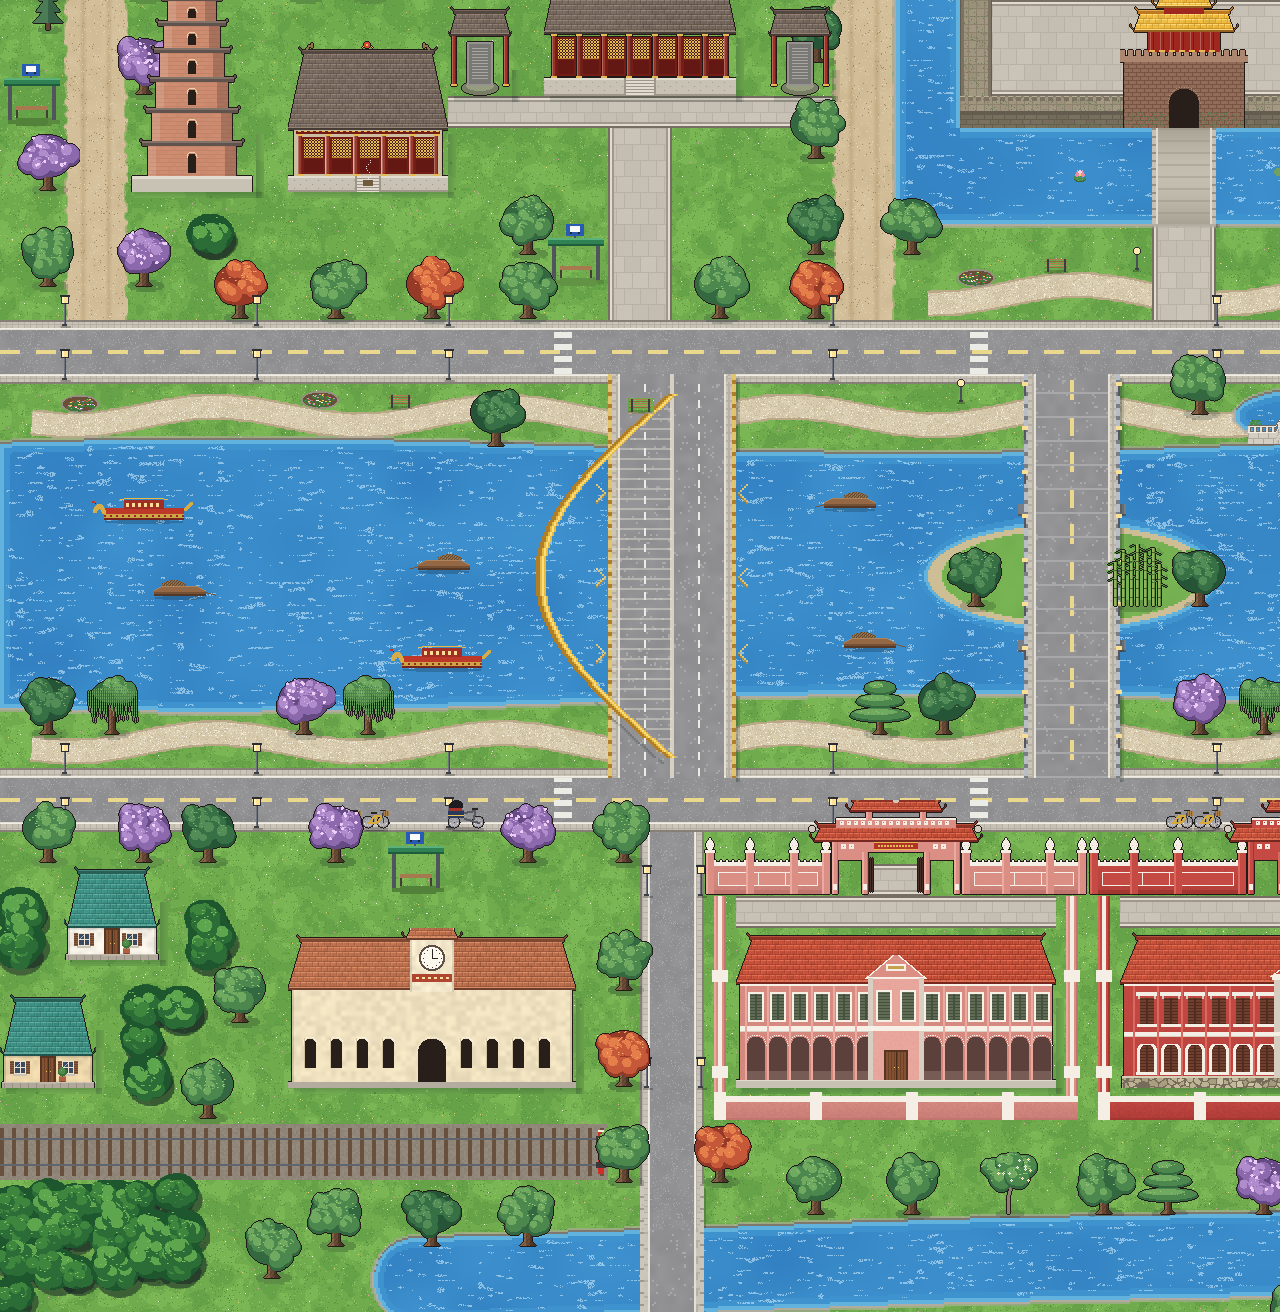
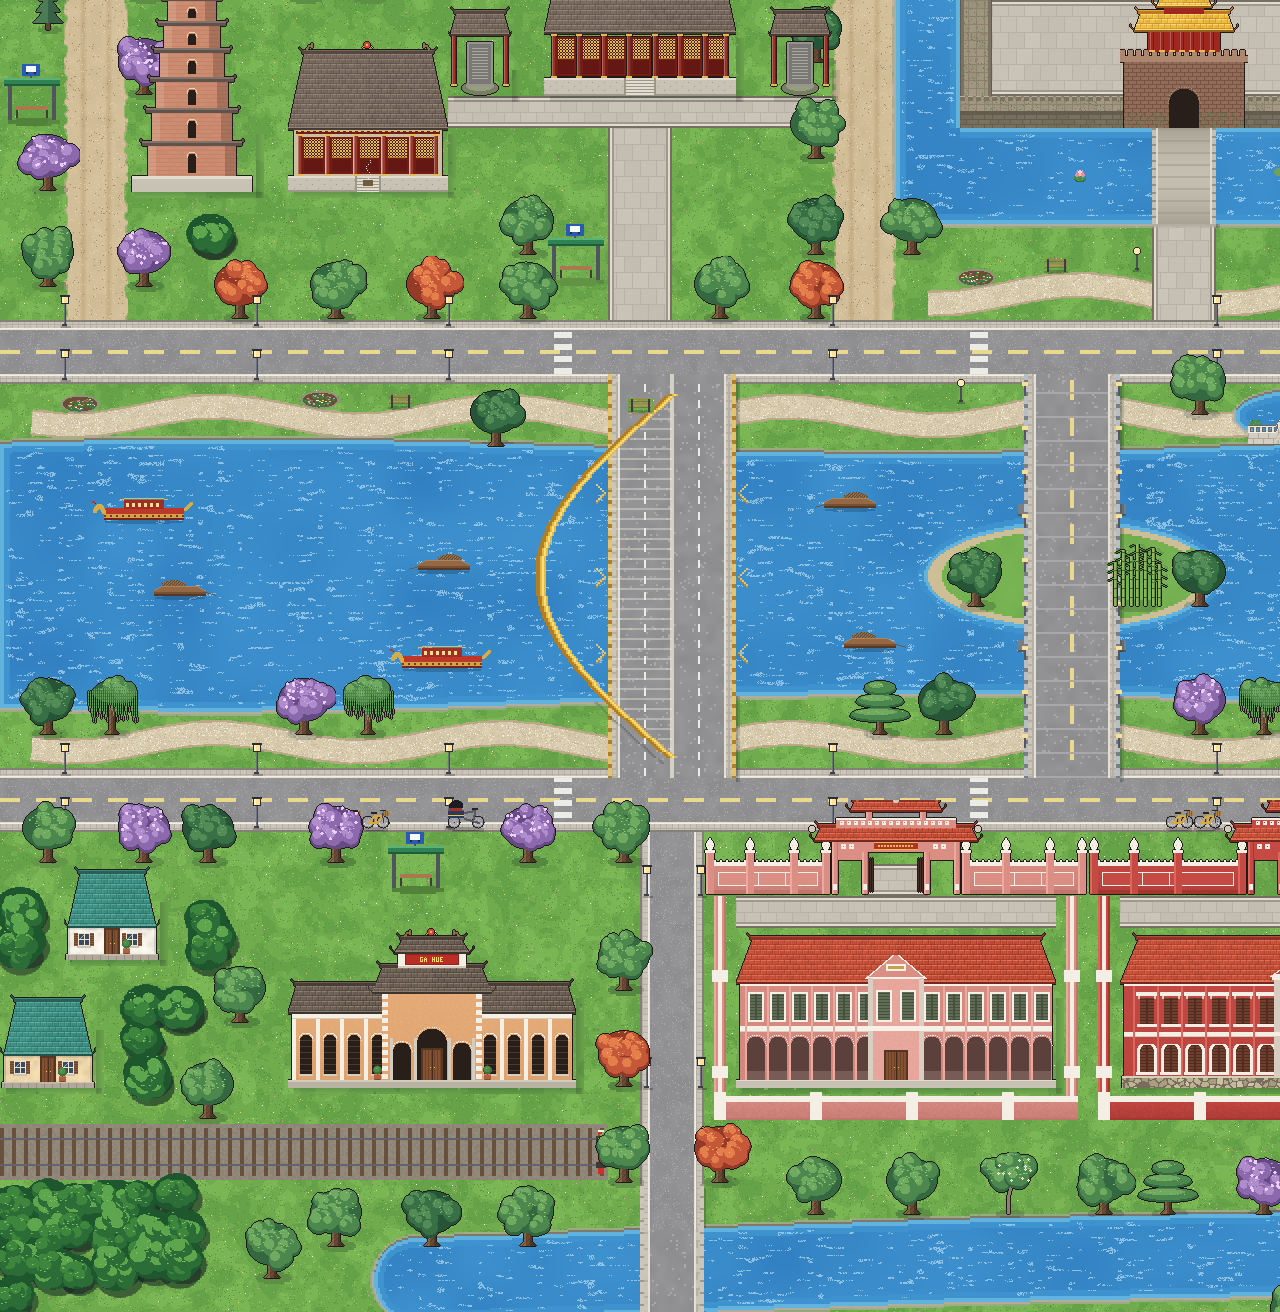
feat: Ga Huế redrawn, and a departures board with trips coming soon
- The station as it stands: apricot walls picked out in white, a long low
  wing either side under dark tile with arched windows between pilasters,
  the taller middle hall under two tiers of curved roof with upturned
  corners, the GA HUE sign in red and gold between them, a three-arched
  porch. The map's own copy is the detail art halved, like the schools.
- A departures board at the east end of the platform, by the buffer stop.
  Walk up and it lists Bạch Mã, Thuận An and Lăng Cô, each marked Coming
  soon — the lines are still being laid.

Changed region(s): [[0.2188, 0.6875, 0.4688, 0.8438]]

diff --git a/src/components/GameWorld.tsx b/src/components/GameWorld.tsx
@@ -236,8 +236,11 @@ const INTRO_SEEN = 'voca-world-intro-seen';
 // A game's mark on its card: a pixel icon where the kit has one, else an emoji.
 const PLAYS: Record<string, { emoji?: string; icon?: PixelIconName }> = {
   piano: { emoji: '🎹' }, race: { icon: 'train' }, fish: { emoji: '🎣' },
-  cailuong: { icon: 'stage' }, fortune: { icon: 'sticks' }, fireworks: { icon: 'firework' }, pool: { icon: 'eightball' }, foosball: { icon: 'foos' }, ladder: { icon: 'cap' },
+  cailuong: { icon: 'stage' }, fortune: { icon: 'sticks' }, fireworks: { icon: 'firework' }, pool: { icon: 'eightball' }, foosball: { icon: 'foos' }, ladder: { icon: 'cap' }, train: { icon: 'train' },
 };
+
+/** Where Ga Huế's trains will go, in the board's order (world.train.<id>). */
+const TRAIN_TRIPS = ['bachMa', 'thuanAn', 'langCo'] as const;
 
 /** One foldable section of the travel drawer. `onTitle`, when given, makes
  *  the title itself a destination (a skill's keeper); the chevron folds. */
@@ -1515,7 +1518,31 @@ export function GameWorld({
       )}
 
       {/* ── The playground: the street piano, the type race ── */}
-      {!panel && !nearestFeature && playHere && !playing && !busRide && busTicket === null && (
+      {/* Ga Huế's departures board: trips out of town, none running yet. */}
+      {!panel && !nearestFeature && playHere === 'train' && !busRide && busTicket === null && (
+        <WorldCard
+          icon="train"
+          title={<FormattedMessage id="world.trainTitle" />}
+          subtitle={<FormattedMessage id="world.trainBlurb" />}
+        >
+          <ul className="space-y-1.5">
+            {TRAIN_TRIPS.map((trip) => (
+              <li key={trip} className="px-inset px-notch flex items-center gap-2.5 px-2.5 py-2">
+                <div className="flex-1 min-w-0">
+                  <p className="px-title !text-[13px] text-[var(--px-text)]"><FormattedMessage id={`world.train.${trip}`} /></p>
+                  <p className="text-[12px] text-[var(--px-muted)] leading-snug"><FormattedMessage id={`world.train.${trip}Note`} /></p>
+                </div>
+                <span className="px-title !text-[11px] shrink-0 text-[var(--px-gold)] whitespace-nowrap"><FormattedMessage id="world.trainSoon" /></span>
+              </li>
+            ))}
+          </ul>
+          <p className="mt-2.5 flex items-center gap-1.5 text-[12px] text-[var(--px-muted)]">
+            <PixelIcon name="hourglass" size={1} />
+            <FormattedMessage id="world.trainBuilding" />
+          </p>
+        </WorldCard>
+      )}
+      {!panel && !nearestFeature && playHere && playHere !== 'train' && !playing && !busRide && busTicket === null && (
         <WorldCard
           emoji={PLAYS[playHere]?.emoji ?? (PLAYS[playHere]?.icon ? undefined : '🎲')}
           icon={PLAYS[playHere]?.icon}

diff --git a/src/game/worldExtras.ts b/src/game/worldExtras.ts
@@ -10,6 +10,8 @@
 //             piano — solo practice; matches start from a player
 //   foosball  a bi lắc table on Phố đi bộ's east end, by the fountain — you
 //             against the computer
+//   train     a departures board at the east end of Ga Huế's platform —
+//             trips out of town, none running yet
 //   ladder    a quiz podium in Quốc Học's forecourt, inside the gate —
 //             fifteen general questions, easy to hard, and a teacher by it
 //   fireworks two launch pads on the citadel wall either side of Kỳ Đài, before
@@ -33,6 +35,7 @@ export const EXTRA_PLAYS: { game: string; x: number; y: number; festive?: boolea
   { game: 'pool', x: 64.8, y: 64.2 },
   { game: 'foosball', x: 70.0, y: 64.4 },
   { game: 'ladder', x: 37.0, y: 69.5 },
+  { game: 'train', x: 18.4, y: 75.6 },
   ...FIREWORKS_PADS.map((p) => ({ game: 'fireworks', ...p, festive: true })),
 ];
 
@@ -56,6 +59,8 @@ const KEEPERS: { x: number; y: number; dress: KeeperDress }[] = [
 const POOL = { x: 64.8, y: 63.7 };
 /** The foosball table, by the fountain. */
 const FOOS = { x: 70.0, y: 63.9 };
+/** The departures board, on Ga Huế's platform by the buffer stop. */
+const BOARD = { x: 18.4, y: 75.4 };
 /** The quiz podium, in Quốc Học's forecourt west of the gate. */
 const PODIUM = { x: 36.0, y: 70.0 };
 
@@ -154,6 +159,15 @@ function makeTextures(scene: Phaser.Scene) {
     px(2, 11, 10, 3, '#24357a');
     px(6, 11, 2, 2, '#ffd23f');
   });
+  // A station's departures board: a dark panel in a green frame on two
+  // posts, three lines of amber lettering and a little clock over it.
+  canvasTexture(scene, 'extra-board', 18, 20, (px) => {
+    px(3, 12, 2, 8, '#3a3a40'); px(13, 12, 2, 8, '#3a3a40');                // the posts
+    px(0, 4, 18, 10, '#2f5a46'); px(0, 4, 18, 1, '#4f8a6a');
+    px(1, 5, 16, 8, '#14181c');
+    for (let i = 0; i < 3; i++) { px(2, 6 + i * 2.4, 7, 1, '#ffb43a'); px(11, 6 + i * 2.4, 4, 1, i === 0 ? '#ff6a4a' : '#ffb43a'); }
+    px(7, 0, 4, 4, '#2f5a46'); px(8, 1, 2, 2, '#f6f1e4');                  // the clock
+  });
   // A floating note, for the music.
   canvasTexture(scene, 'extra-note', 5, 7, (px) => {
     px(3, 0, 1, 5, '#ffffff'); px(3, 0, 2, 1, '#ffffff'); px(4, 1, 1, 1, '#ffffff');
@@ -193,6 +207,9 @@ export function buildExtras(ctx: ExtrasContext) {
 
   const foos = scene.add.image(FOOS.x * k, FOOS.y * k, 'extra-foos').setOrigin(0.5, 1).setScale(scale).setDepth(depth.ground);
   ctx.tinted.push(foos);
+
+  const board = scene.add.image(BOARD.x * k, BOARD.y * k, 'extra-board').setOrigin(0.5, 1).setScale(scale).setDepth(depth.ground);
+  ctx.tinted.push(board);
 
   const podium = scene.add.image(PODIUM.x * k, PODIUM.y * k, 'extra-podium').setOrigin(0.5, 1).setScale(scale).setDepth(depth.ground);
   ctx.tinted.push(podium);

diff --git a/src/i18n/messages/vi/world.ts b/src/i18n/messages/vi/world.ts
@@ -171,6 +171,16 @@ export default {
   'world.pianoProgress': 'Nốt {at}/{total} — bấm phím đang sáng',
   'world.pianoDone': 'Hay lắm! Đúng ngay {accuracy}%',
   'world.pianoHint': 'Phím: Z X C cho nốt trầm, A đến ↵ cho phím trắng từ Đô giữa, W E T Y U O P ] cho phím đen — hoặc chạm vào phím.',
+  'world.trainTitle': 'Ga Huế · Chuyến đi',
+  'world.trainBlurb': 'Tàu ra khỏi Huế — các tuyến vẫn đang được làm.',
+  'world.trainSoon': 'Sắp có',
+  'world.trainBuilding': 'Đang thi công — hãy quay lại đón chuyến tàu đầu tiên.',
+  'world.train.bachMa': 'Bạch Mã',
+  'world.train.bachMaNote': 'Vườn quốc gia trên núi: đỉnh mờ sương, thác nước, biệt thự Pháp xưa',
+  'world.train.thuanAn': 'Biển Thuận An',
+  'world.train.thuanAnNote': 'Nơi sông Hương đổ ra biển, thuyền đánh cá trên bãi cát',
+  'world.train.langCo': 'Biển Lăng Cô',
+  'world.train.langCoNote': 'Đầm phá và bãi cát trắng dài dưới chân đèo Hải Vân',
   'world.raceTitle': 'Đua gõ chữ',
   'world.raceBlurb': 'Đua với tàu hỏa bằng cách gõ từ của bạn.',
   'world.raceIntro': 'Gõ {count} từ của bạn nhanh nhất có thể — dấu cách để sang từ tiếp. Chọn tàu:',

diff --git a/src/i18n/messages/en/world.ts b/src/i18n/messages/en/world.ts
@@ -173,6 +173,16 @@ export default {
   'world.pianoProgress': 'Note {at} of {total} — play the glowing key',
   'world.pianoDone': 'Well played! {accuracy}% right first time',
   'world.pianoHint': 'Keys: Z X C for the low notes, A to ↵ for the white keys from middle C, W E T Y U O P ] for the black ones — or tap them.',
+  'world.trainTitle': 'Ga Huế · Departures',
+  'world.trainBlurb': 'Trains out of Huế — the lines are still being laid.',
+  'world.trainSoon': 'Coming soon',
+  'world.trainBuilding': 'Under construction — check back for the first train.',
+  'world.train.bachMa': 'Bạch Mã',
+  'world.train.bachMaNote': 'National park in the mountains: misty peaks, waterfalls, old French villas',
+  'world.train.thuanAn': 'Thuận An Beach',
+  'world.train.thuanAnNote': 'Where the Hương River meets the sea, fishing boats on the sand',
+  'world.train.langCo': 'Lăng Cô Beach',
+  'world.train.langCoNote': 'A lagoon and a long white beach below the Hải Vân pass',
   'world.raceTitle': 'Type race',
   'world.raceBlurb': 'Race the train by typing your own words.',
   'world.raceIntro': 'Type {count} of your words as fast as you can — space for the next one. Pick your train:',
